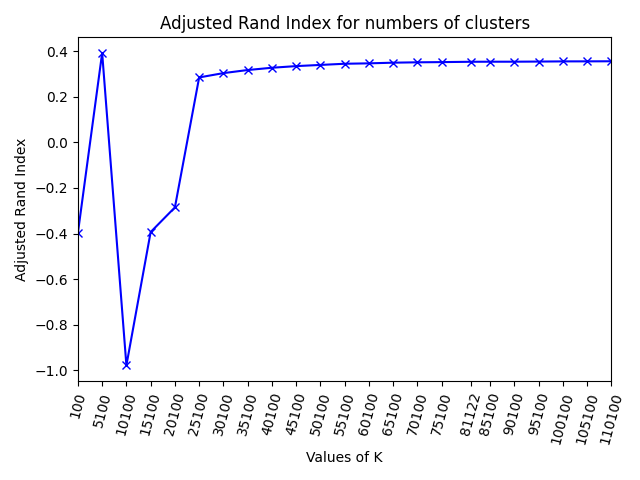
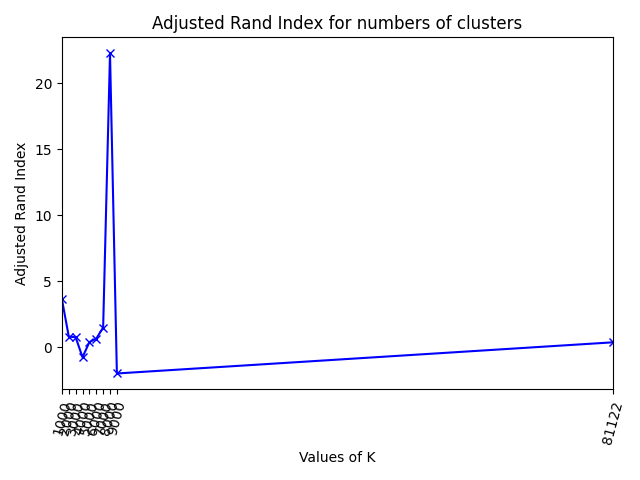
Files from presentation

diff --git a/sbert.py b/sbert.py
@@ -26,60 +26,39 @@ sentences = data['descp']
 model = SentenceTransformer('./paraphrase-distilroberta-base-sefaz', device='cuda')
 
 embeddings = model.encode(sentences, show_progress_bar=True)
-# print(cluster.gpu_clustering(k, embeddings, data, keep_clusters=False))
+print(cluster.gpu_clustering(k, embeddings, data, keep_clusters=False))
+
+# cluster.find_k(k, embeddings)
+
+# # Homogeneity Test
+# K = [*range(100, (2*10**4), 500)]
+# K.append(k)
+# # K.remove(80100)
+# K.sort()
+
+# homogeneity_all = []
+# time_all = []
+# savingDataList = []
 
 
+# for k_ in K:
+#     start = time()
 
-# Adjusted Rand Index
-K = [*range(100, k+(3*10**4), 5000)]
-K.append(k)
-K.remove(80100)
-K.sort()
+#     homogeneity = cluster.gpu_clustering(k_, embeddings, data, keep_clusters=False)
+#     homogeneity_all.append(homogeneity)
 
-adjusted_rand_index_all = []
-time_all = []
-savingDataList = []
+#     end = time()
 
+#     run_time = end - start
+#     time_all.append(run_time)
 
-for k_ in K:
-    start = time()
+#     tmpDict = {
+#         'K Value': k_,
+#         'Homogeneity': homogeneity,
+#         'Runtime': run_time
+#     }
+#     savingDataList.append(tmpDict)
 
-    adjusted_rand_index = cluster.gpu_clustering(k_, embeddings, data, keep_clusters=False)
-    adjusted_rand_index_all.append(adjusted_rand_index)
-
-    end = time()
-
-    run_time = end - start
-    time_all.append(run_time)
-
-    tmpDict = {
-        'K Value': k_,
-        'Adjusted Rand Index': adjusted_rand_index,
-        'Runtime': run_time
-    }
-    savingDataList.append(tmpDict)
-
-# Saving results
-savingDataframe = DataFrame(savingDataList)
-savingDataframe.to_csv("data/adjusted_rand_index_runtime_results.csv", index=False)
-
-# Ploting results
-plt.plot(K, adjusted_rand_index_all, 'bx-')
-plt.xlabel('Values of K')
-plt.ylabel('Adjusted Rand Index')
-plt.title('Adjusted Rand Index for numbers of clusters')
-plt.xticks(K, rotation=75, fontsize=10)
-plt.margins(x=0)
-plt.tight_layout()
-plt.savefig("adjusted_rand_index_graph.png")
-plt.close()
-
-plt.plot(K, time_all, 'bx-')
-plt.xlabel('Values of K')
-plt.ylabel('Time (seconds)')
-plt.title('Runtime for numbers of clusters')
-plt.xticks(K, rotation=75, fontsize=10)
-plt.margins(x=0)
-plt.tight_layout()
-plt.savefig("runtime_graph.png")
-plt.close()
+# # Saving results
+# savingDataframe = DataFrame(savingDataList)
+# savingDataframe.to_csv("data/homogeneity_runtime_results_al.csv", index=False)

diff --git a/cluster.py b/cluster.py
@@ -5,7 +5,7 @@ import validateCluster as valCluster
 import os, glob
 import numpy as np
 import matplotlib.pyplot as plt
-from sklearn.metrics import precision_score, recall_score, f1_score, adjusted_rand_score, homogeneity_score
+from sklearn.metrics import precision_score, recall_score, f1_score, adjusted_rand_score, homogeneity_score, silhouette_score
 from sklearn.preprocessing import LabelEncoder
 
 def preprocessing(text):
@@ -24,8 +24,8 @@ def preprocessing(text):
     finalText = finalText.replace(".", " ")
     return text
 
-def find_k_elbow(k_, embeddings, _kmeans = FaissKMeans):
-    K = [*range(100, k_+(2*10**4), 5000)]
+def find_k(k_, embeddings, _kmeans = FaissKMeans):
+    K = [*range(500, (2*10**4), 500)]
     K.append(k_)
     K.sort()
 
@@ -34,14 +34,16 @@ def find_k_elbow(k_, embeddings, _kmeans = FaissKMeans):
     for k in K:
         clustering_model = _kmeans(n_clusters=k, n_init=1, max_iter=50)
         clustering_model.fit(embeddings)
-        inertias.append(clustering_model.inertia_)
+        labels = clustering_model.labels_
+        inertias.append(silhouette_score(embeddings, labels, metric = 'euclidean'))
         # print(k)
 
     plt.plot(K, inertias, 'bx-')
     plt.xlabel('Values of K')
-    plt.ylabel('Inertia')
-    plt.title('The Elbow Method using Inertia')
-    plt.savefig("elbow_graph.png")
+    plt.ylabel('Silhouette Score')
+    plt.title('The Silhouette Score')
+    plt.xticks(K, rotation=75, fontsize=10)
+    plt.savefig("silhouette.png")
     plt.close()
 
 def cpu_clustering(k_, embeddings_, data_, keep_clusters = False):
@@ -77,7 +79,7 @@ def __clustering(k, embeddings, data, kmeans_, keep_clusters):
         for f in files:
             os.remove(f)
 
-    return adjusted_rand_score(LabelEncoder().fit_transform(data['gtin']), clustering_model.labels_)
+    return homogeneity_score(LabelEncoder().fit_transform(data['gtin']), clustering_model.labels_)
     
     # {
     #     'precision': precision_score(LabelEncoder().fit_transform(data['gtin']), clustering_model.labels_, average='macro'),

diff --git a/plotUnified.py b/plotUnified.py
@@ -1,0 +1,21 @@
+#!/usr/bin/python3
+from matplotlib import pyplot as plt
+import pandas as pd
+
+data = pd.read_csv("data/homogeneity_runtime_results.csv")
+
+ax = data.plot(x="K Value", y="Homogeneity")
+ax.set_ylabel("Pontuação de Homogeneidade")
+
+ax2 = ax.twinx()
+rspine = ax2.spines['right']
+rspine.set_position(('axes', 1.15))
+ax2.set_frame_on(True)
+ax2.patch.set_visible(False)
+
+data.plot(x="K Value", y="Runtime", ax=ax, secondary_y=True, rot=75, fontsize=10, grid=True)
+plt.tight_layout()
+ax.right_ax.set_ylabel("Tempo de execução (segundos)")
+
+ax2.set_xticks(data["K Value"])
+plt.savefig("Homogeneidade_tempoexecucao.png")

diff --git a/teste.py b/teste.py
@@ -1,0 +1,16 @@
+from sentence_transformers import SentenceTransformer
+model = SentenceTransformer('paraphrase-distilroberta-base-v2')
+
+#Our sentences we like to encode
+sentences = ['This framework generates embeddings for each input sentence',
+    'Sentences are passed as a list of string.', 
+    'The quick brown fox jumps over the lazy dog.']
+
+#Sentences are encoded by calling model.encode()
+embeddings = model.encode(sentences)
+
+#Print the embeddings
+for sentence, embedding in zip(sentences, embeddings):
+    print("Sentence:", sentence)
+    print("Embedding:", embedding)
+    print("")

diff --git a/fine_tunning_sbert.py b/fine_tunning_sbert.py
@@ -22,7 +22,8 @@ with open("data/products_similar.tsv", 'rt', encoding='utf8') as fIn:
         train_samples.append(inp_example)
 
 train_dataloader = DataLoader(train_samples, shuffle=True, batch_size=64)
-train_loss = losses.CosineSimilarityLoss(model=sbert_model)
+# train_loss = losses.CosineSimilarityLoss(model=sbert_model)
+train_loss = losses.MultipleNegativesRankingLoss(model=sbert_model)
 
 # Fine-tune the model
 sbert_model.fit(train_objectives=[(train_dataloader, train_loss)],
